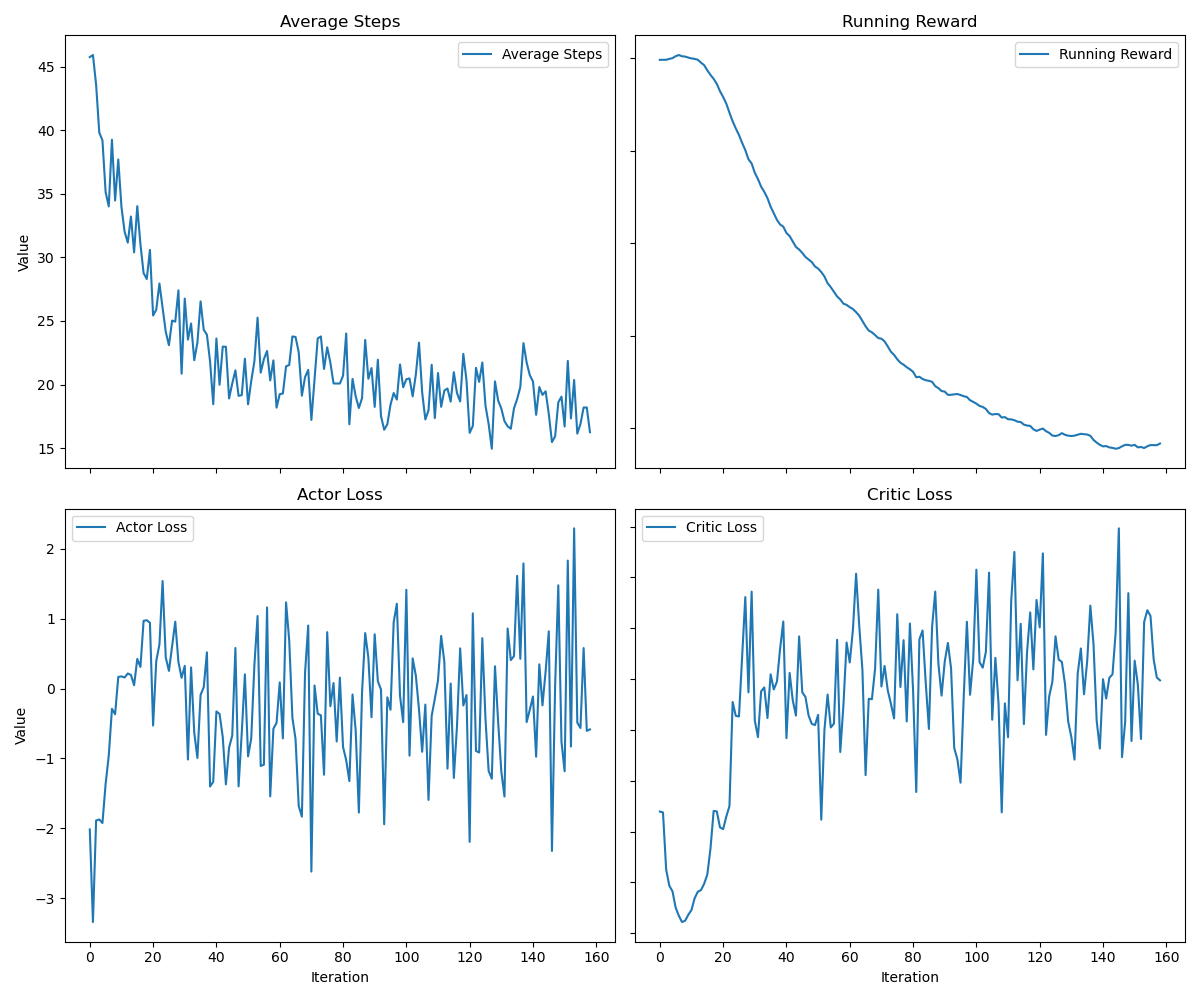
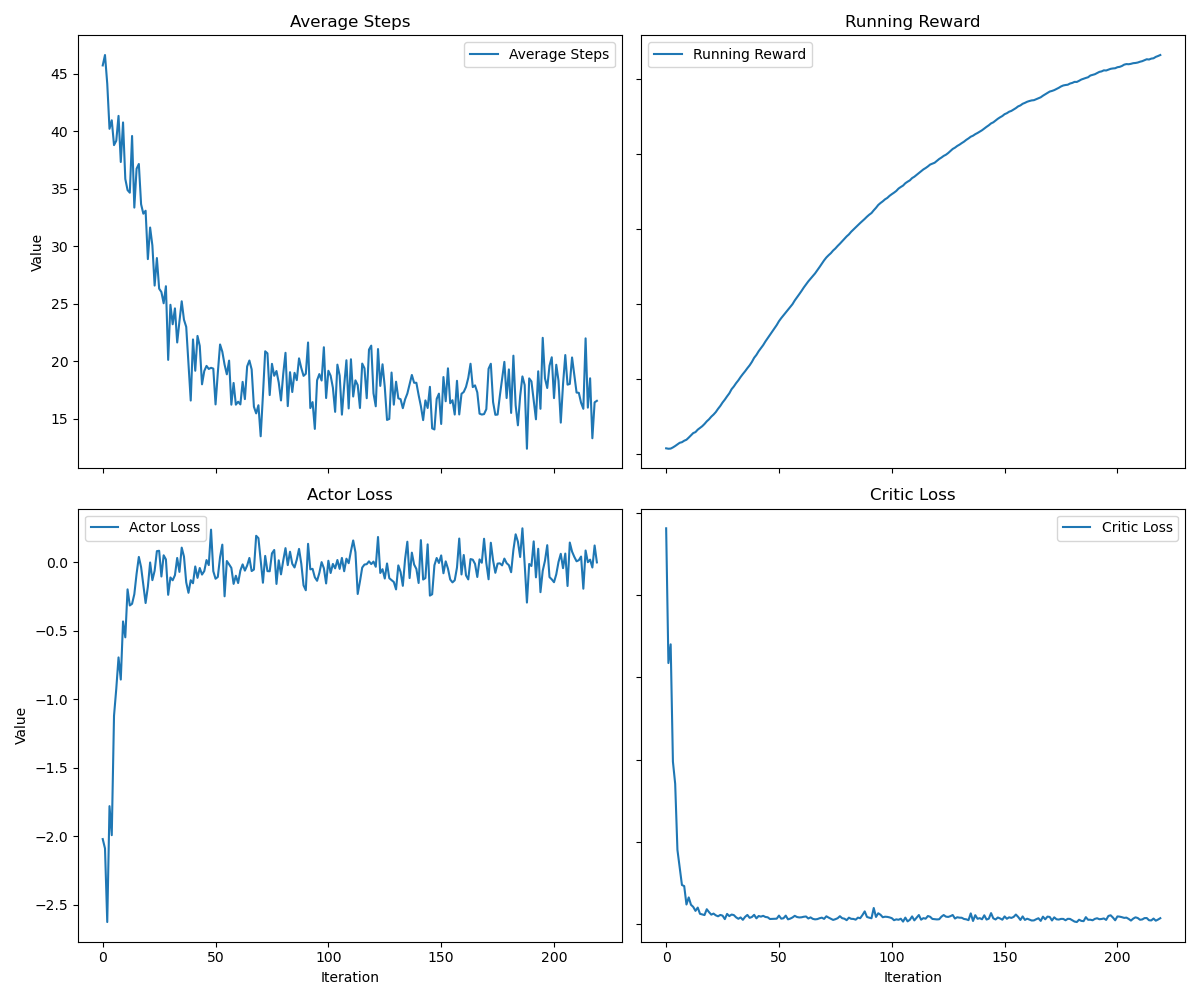
remove unfunctional parts

diff --git a/environment.py b/environment.py
@@ -29,9 +29,6 @@ class Env:
         self.action_map = torch.zeros(
             (self.env_batch, 3, 32, 32), dtype=torch.float32, device=self.device
         )
-        self.reset_count = 0  # reset 호출 횟수를 추적
-        self.max_resets = 300  # gamma가 최댓값에 도달하는 reset 횟수
-        self.gamma_increment = (1.0 - gamma) / self.max_resets
 
     def reset(self):
         while True:
@@ -52,12 +49,6 @@ class Env:
         self.original_class = torch.argmax(self.original_prediction, dim=1)
         self.actions_taken = 0
 
-        self.reset_count += 1  # reset 호출 횟수 증가
-        # gamma 값을 조정하되, 최댓값 1.0을 초과하지 않도록 함
-        self.gamma = min(1.0, self.gamma + self.gamma_increment * self.reset_count)
-        # gamma가 최댓값에 도달했을 때의 처리를 위한 조건 추가
-        if self.reset_count >= self.max_resets:
-            self.gamma = 1.0
         return self.current_state
 
     def step(self, actions):

diff --git a/train.py b/train.py
@@ -99,6 +99,10 @@ class Train:
 
                 actor_loss = self.compute_actor_loss(ratio, adv)
 
+                entropy_loss = new_dist.entropy().mean()
+
+                actor_loss += -0.01 * entropy_loss
+
                 self.agent.optimize(actor_loss, critic_loss)
 
         return actor_loss, critic_loss
